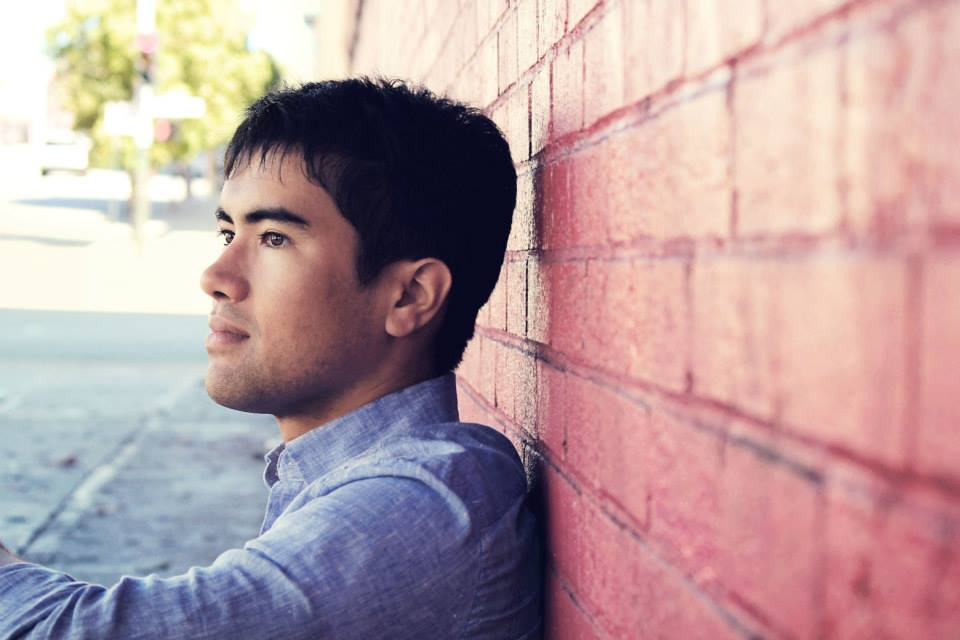
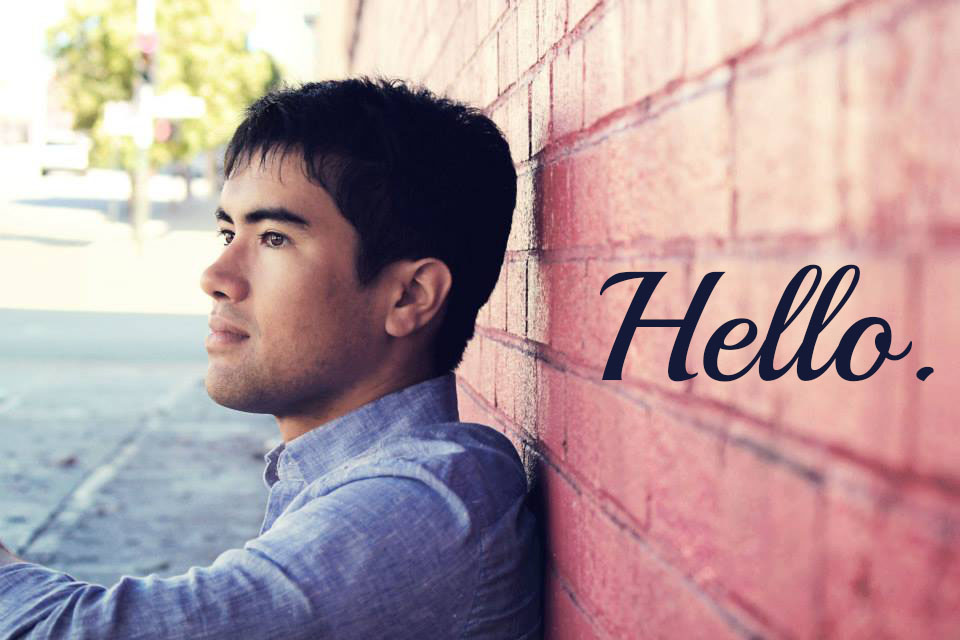
bugfixes to About page

Changed region(s): [[0.625, 0.4062, 0.9688, 0.5938]]

diff --git a/themes/svbtle/static/css/style.css b/themes/svbtle/static/css/style.css
@@ -1,1 +1,1 @@
-html{min-height:100%;margin:0;padding:0;font-size:100%;-webkit-text-size-adjust:100%;-ms-text-size-adjust:100%;overflow-y:scroll}body{margin:0;padding:0;background-color:#fff;color:#4d4d4d;font-family:'Proxima Nova','Open Sans','Lato',sans-serif;font-size:13px;line-height:16px;-webkit-font-smoothing:subpixel-antialiased}a{color:#000;text-decoration:none;border-bottom:1px dotted #999}a:link{color:#000}a:hover{color:#0e94ec;outline:0}a:active{color:#0e94ec;outline:0}a:focus{outline:thin dotted}.clearfix{content:".";display:block;height:0;clear:both}abbr.published{margin:0;padding:0;text-transform:uppercase;font-weight:300px;font-size:13px;line-height:16px}section#sidebar{width:258px;position:fixed;top:0;left:0;bottom:0;right:auto;min-height:700px;z-index:0}section#sidebar figure{margin:40px 40px;width:100px;height:100px}section#sidebar h1{text-align:center;display:block;font-family:'Source Sans Pro','Proxima Nova','Open Sans','Lato',sans-serif;font-weight:900;font-size:34px;line-height:38px;text-transform:uppercase}section#sidebar h1 a{border:none}section#sidebar h2{margin:0 40px 0 0;padding:0 0 0 40px;font-size:18px;font-weight:300;line-height:20px}section#sidebar p.bio{padding:0 20px 0 40px}section#sidebar ul{margin:0;padding:0}section#sidebar li{margin:0 35% 0 35%;padding:10px 0 10px;clear:both;display:block;float:none;text-align:center}section#sidebar li a{font-size:16px;line-height:1.1em;border:none;text-transform:uppercase;letter-spacing:.2em;font-weight:normal}section#sidebar hr{height:1em;margin:0;text-align:center;border-width:0}section#sidebar hr:after{content:"···";letter-spacing:1.2em;padding-left:.9em}section#sidebar footer{margin:0;padding:0;position:absolute;bottom:45px;width:258px;text-align:center;color:#999;font-size:12px;font-weight:300;line-height:15px}section#posts{top:0;margin:0 0 0 260px;padding:0 0 75px 0;min-height:700px;min-width:710px;height:100%;border-left:#ddd 1px solid;background-color:rgba(255,255,255,0.9);position:relative;z-index:1}section#posts h1{margin:24px 0 16px;color:#000;font-size:24px;line-height:32px;font-family:'Source Sans Pro',sans-serif;font-weight:700;text-transform:uppercase;letter-spacing:.05em}section#posts h2{margin:24px 0 14px;color:#000;font-size:20px;line-height:26px}section#posts h3{margin:22px 0 12px;color:#000}section#posts h4{margin:20px 0 10px;color:#000}section#posts h5{margin:20px 0 10px;color:#000}section#posts h6{margin:20px 0 10px;color:#000}section#posts ul,section#posts ol{margin:0 0 0 15px;padding:0;list-style-position:outside}section#posts ul li,section#posts ol li{margin:0 0 0 15px;padding:3px 0 3px 5px}section#posts ul pre,section#posts ol pre{width:517px}section#posts blockquote{margin:0;padding:0 0 0 20px;display:inline-block;border-left:10px solid #0e94ec;max-width:500px}section#posts blockquote p{width:530px}section#posts code{margin:0;padding:2px 4px;color:#000;background-color:#ddd;font-family:'Inconsolata',monospace,serif;box-shadow:inset 0 1px 2px rgba(0,0,0,0.3),0 1px 0 rgba(255,255,255,0.6);-moz-box-shadow:inset 0 1px 2px rgba(0,0,0,0.3),0 1px 0 rgba(255,255,255,0.6);-webkit-box-shadow:inset 0 1px 2px rgba(0,0,0,0.3),0 1px 0 rgba(255,255,255,0.6)}section#posts .highlight{padding:0 3% 0 3%}section#posts pre{padding:20px;display:inline-block;border-left:5px solid #0e94ec;color:#000;background-color:#ebebeb;font-family:'Inconsolata',monospace,serif;overflow-x:auto;width:100%;line-height:initial;-webkit-box-sizing:border-box;-moz-box-sizing:border-box;box-sizing:border-box}section#posts hr{color:#ddd;background-color:#ddd;height:1px;width:100%;border:none}section#posts header{margin:0;padding:40px 40px 40px 50px;border-bottom:#ddd 1px solid;font-color:#000;text-size:15px;line-height:1em}section#posts header h1.title{padding:0;display:block;font-family:'Freight-Sans-Pro','Open Sans','Lato',sans-serif;font-weight:bold;font-size:36px;text-transform:none;margin:0 0 8px 0;line-height:1em}section#posts header h1.title a{border:none}section#posts header h3.author,section#posts header h3.date{float:left;margin:0 2em 0 0;font-weight:normal}section#posts header h3.author{font-style:italic}section#posts footer{margin:0;padding:0;border-top:#ddd 1px solid}section#posts td.linenos pre{margin:0;padding:0 2px;width:20px;border:none;text-align:right}section#posts a.button_accent{margin:40px 50px;padding:10px 20px;display:inline-block;border:3px solid #0e94ec;border-radius:70px;-moz-border-radius:70px;-webkit-border-radius:70px;text-transform:uppercase;color:#0e94ec;font-size:17px;font-weight:400}section#posts a.button_accent:link{color:#0e94ec}section#posts a.button_accent:hover{color:#fff;background-color:#0e94ec;outline:0}section#posts a.button_accent:active{color:#fff;background-color:#0e94ec;outline:0}section#posts p.paginator{margin:0;padding:0;min-height:122px;width:100%;border-top:#ddd 1px solid}section#posts article{margin:0;padding:40px 20% 40px 50px;position:relative;font-size:15px;line-height:25px;overflow-x:hidden;overflow-y:hidden}section#posts article #title{font-family:'Freight-Sans-Pro','Proxima Nova','Open Sans','Lato',sans-serif;margin:32px 0 0;padding:0;color:#000}section#posts article #title a{border:none}section#posts article #article_meta{margin:20px 0 0 0;padding:0;font-size:13px;line-height:16px}section#posts article p{text-align:justify}section#posts article p strong{text-transform:uppercase;font-family:'Source Sans Pro',sans-serif}section#posts #comments{margin:0;padding:40px 40px 40px 50px;position:relative;border-top:#ddd 1px solid;font-size:15px;line-height:25px;min-height:600px}section#posts #comments h2{color:#000}section#posts #disqus_thread{width:600px}section#posts dl#tag_list{margin:0;padding:40px 40px 40px 50px;font-size:14px;line-height:18px}section#posts dl#tag_list ul{margin:0;padding:0}section#posts dl#tag_list ul li{margin:0;padding:0}section#posts dl{margin:0;padding:0;font-size:15px;line-height:25px;overflow-x:hidden;overflow-y:hidden}section#posts dl ol{margin:0;padding:0;list-style-type:none}section#posts dl ol li{margin:0 0 0;padding:0 0 50px 50px;border-bottom:#ddd 1px solid}section#posts dl ol .title{margin:76px 0 0;padding:0;color:#000}section#posts dl ol .title a{border:none}section#posts dl ol .entry-content{padding-right:20%}section#posts dl ol .entry-content ul{margin:0 0 0 15px;padding:0;list-style-position:outside}section#posts dl ol .entry-content ul li{margin:0 0 15px 15px;padding:3px 0 3px 5px;border-bottom:0}section#posts .img-center{width:66%;margin:auto}section#posts .img-center img{max-width:100%;max-height:100%;display:block}.MathJax span{color:#000}.table-bordered>thead>tr>th,.table-bordered>tbody>tr>th,.table-bordered>tfoot>tr>th,.table-bordered>thead>tr>td,.table-bordered>tbody>tr>td,.table-bordered>tfoot>tr>td{border:1px solid #ddd;padding:8px;line-height:1.42857143;vertical-align:top;border-top:1px solid #ddd}.table-bordered>thead>tr:last-child>th{border-bottom:1px solid #7f7f7f}.table-centered>thead>tr>th,.table-centered>tbody>tr>th,.table-centered>tfoot>tr>th,.table-centered>thead>tr>td,.table-centered>tbody>tr>td,.table-centered>tfoot>tr>td{text-align:center}.table-bordered{border:1px solid #ddd}.table{width:100%;max-width:100%;background-color:transparent;border-spacing:0;border-collapse:collapse}.pseudocode{border-top:1px solid #000;border-bottom:1px solid #000;background-color:#f0f0f0;font-size:90%;margin:1em 0;padding:.5em;line-height:initial;font-family:'Inconsolata',monospace;font-weight:normal}
+html{min-height:100%;margin:0;padding:0;font-size:100%;-webkit-text-size-adjust:100%;-ms-text-size-adjust:100%;overflow-y:scroll}body{margin:0;padding:0;background-color:#fff;color:#4d4d4d;font-family:'Proxima Nova','Open Sans','Lato',sans-serif;font-size:13px;line-height:16px;-webkit-font-smoothing:subpixel-antialiased}a{color:#000;text-decoration:none;border-bottom:1px dotted #999}a:link{color:#000}a:hover{color:#0e94ec;outline:0}a:active{color:#0e94ec;outline:0}a:focus{outline:thin dotted}.clearfix{content:".";display:block;height:0;clear:both}abbr.published{margin:0;padding:0;text-transform:uppercase;font-weight:300px;font-size:13px;line-height:16px}section#sidebar{width:258px;position:fixed;top:0;left:0;bottom:0;right:auto;min-height:700px;z-index:0}section#sidebar figure{margin:40px 40px;width:100px;height:100px}section#sidebar h1{text-align:center;display:block;font-family:'Source Sans Pro','Proxima Nova','Open Sans','Lato',sans-serif;font-weight:900;font-size:34px;line-height:38px;text-transform:uppercase}section#sidebar h1 a{border:none}section#sidebar h2{margin:0 40px 0 0;padding:0 0 0 40px;font-size:18px;font-weight:300;line-height:20px}section#sidebar p.bio{padding:0 20px 0 40px}section#sidebar ul{margin:0;padding:0}section#sidebar li{margin:0 35% 0 35%;padding:10px 0 10px;clear:both;display:block;float:none;text-align:center}section#sidebar li a{font-size:16px;line-height:1.1em;border:none;text-transform:uppercase;letter-spacing:.2em;font-weight:normal}section#sidebar hr{height:1em;margin:0;text-align:center;border-width:0}section#sidebar hr:after{content:"···";letter-spacing:1.2em;padding-left:.9em}section#sidebar footer{margin:0;padding:0;position:absolute;bottom:45px;width:258px;text-align:center;color:#999;font-size:12px;font-weight:300;line-height:15px}section#posts{top:0;margin:0 0 0 260px;padding:0 0 75px 0;min-height:700px;min-width:710px;height:100%;border-left:#ddd 1px solid;background-color:rgba(255,255,255,0.9);position:relative;z-index:1}section#posts h1{margin:24px 0 16px;color:#000;font-size:24px;line-height:32px;font-family:'Source Sans Pro',sans-serif;font-weight:700;text-transform:uppercase;letter-spacing:.05em}section#posts h2{margin:24px 0 14px;color:#000;font-size:20px;line-height:26px}section#posts h3{margin:22px 0 12px;color:#000}section#posts h4{margin:20px 0 10px;color:#000}section#posts h5{margin:20px 0 10px;color:#000}section#posts h6{margin:20px 0 10px;color:#000}section#posts ul,section#posts ol{margin:0 0 0 15px;padding:0;list-style-position:outside}section#posts ul li,section#posts ol li{margin:0 0 0 15px;padding:3px 0 3px 5px}section#posts ul pre,section#posts ol pre{width:517px}section#posts blockquote{margin:0;padding:0 0 0 20px;display:inline-block;border-left:10px solid #0e94ec;max-width:500px}section#posts blockquote p{width:530px}section#posts code{margin:0;padding:2px 4px;color:#000;background-color:#ddd;font-family:'Inconsolata',monospace,serif;box-shadow:inset 0 1px 2px rgba(0,0,0,0.3),0 1px 0 rgba(255,255,255,0.6);-moz-box-shadow:inset 0 1px 2px rgba(0,0,0,0.3),0 1px 0 rgba(255,255,255,0.6);-webkit-box-shadow:inset 0 1px 2px rgba(0,0,0,0.3),0 1px 0 rgba(255,255,255,0.6)}section#posts .highlight{padding:0 3% 0 3%}section#posts pre{padding:20px;display:inline-block;border-left:5px solid #0e94ec;color:#000;background-color:#ebebeb;font-family:'Inconsolata',monospace,serif;overflow-x:auto;width:100%;line-height:initial;-webkit-box-sizing:border-box;-moz-box-sizing:border-box;box-sizing:border-box}section#posts hr{color:#ddd;background-color:#ddd;height:1px;width:100%;border:none}section#posts header{margin:0;padding:40px 40px 40px 50px;border-bottom:#ddd 1px solid;font-color:#000;text-size:15px;line-height:1em}section#posts header h1.title{padding:0;display:block;font-family:'Freight-Sans-Pro','Open Sans','Lato',sans-serif;font-weight:bold;font-size:36px;text-transform:none;margin:0 0 8px 0;line-height:1em}section#posts header h1.title a{border:none}section#posts header h3.author,section#posts header h3.date{float:left;margin:0 2em 0 0;font-weight:normal}section#posts header h3.author{font-style:italic}section#posts footer{margin:0;padding:0;border-top:#ddd 1px solid}section#posts td.linenos pre{margin:0;padding:0 2px;width:20px;border:none;text-align:right}section#posts a.button_accent{margin:40px 50px;padding:10px 20px;display:inline-block;border:3px solid #0e94ec;border-radius:70px;-moz-border-radius:70px;-webkit-border-radius:70px;text-transform:uppercase;color:#0e94ec;font-size:17px;font-weight:400}section#posts a.button_accent:link{color:#0e94ec}section#posts a.button_accent:hover{color:#fff;background-color:#0e94ec;outline:0}section#posts a.button_accent:active{color:#fff;background-color:#0e94ec;outline:0}section#posts p.paginator{margin:0;padding:0;min-height:122px;width:100%;border-top:#ddd 1px solid}section#posts article{margin:0;padding:40px 20% 40px 50px;position:relative;font-size:15px;line-height:25px;overflow-x:hidden;overflow-y:hidden}section#posts article #title{font-family:'Freight-Sans-Pro','Proxima Nova','Open Sans','Lato',sans-serif;margin:32px 0 0;padding:0;color:#000}section#posts article #title a{border:none}section#posts article #article_meta{margin:20px 0 0 0;padding:0;font-size:13px;line-height:16px}section#posts article p{text-align:justify}section#posts article p strong{text-transform:uppercase;font-family:'Source Sans Pro',sans-serif}section#posts #comments{margin:0;padding:40px 40px 40px 50px;position:relative;border-top:#ddd 1px solid;font-size:15px;line-height:25px;min-height:600px}section#posts #comments h2{color:#000}section#posts #disqus_thread{width:600px}section#posts dl#tag_list{margin:0;padding:40px 40px 40px 50px;font-size:14px;line-height:18px}section#posts dl#tag_list ul{margin:0;padding:0}section#posts dl#tag_list ul li{margin:0;padding:0}section#posts dl{margin:0;padding:0;font-size:15px;line-height:25px;overflow-x:hidden;overflow-y:hidden}section#posts dl ol{margin:0;padding:0;list-style-type:none}section#posts dl ol li{margin:0 0 0;padding:0 0 50px 50px;border-bottom:#ddd 1px solid}section#posts dl ol .title{margin:76px 0 0;padding:0;color:#000}section#posts dl ol .title a{border:none}section#posts dl ol .entry-content{padding-right:20%}section#posts dl ol .entry-content ul{margin:0 0 0 15px;padding:0;list-style-position:outside}section#posts dl ol .entry-content ul li{margin:0 0 15px 15px;padding:3px 0 3px 5px;border-bottom:0}section#posts .img-center{width:66%;margin:auto}section#posts .img-center img{max-width:100%;max-height:100%;display:block}.MathJax span{color:#000}.table-bordered>thead>tr>th,.table-bordered>tbody>tr>th,.table-bordered>tfoot>tr>th,.table-bordered>thead>tr>td,.table-bordered>tbody>tr>td,.table-bordered>tfoot>tr>td{border:1px solid #ddd;padding:8px;line-height:1.42857143;vertical-align:top;border-top:1px solid #ddd}.table-bordered>thead>tr:last-child>th{border-bottom:1px solid #7f7f7f}.table-centered>thead>tr>th,.table-centered>tbody>tr>th,.table-centered>tfoot>tr>th,.table-centered>thead>tr>td,.table-centered>tbody>tr>td,.table-centered>tfoot>tr>td{text-align:center}.table-bordered{border:1px solid #ddd}.table{width:100%;max-width:100%;background-color:transparent;border-spacing:0;border-collapse:collapse}.pseudocode{border-top:1px solid #000;border-bottom:1px solid #000;background-color:#f0f0f0;font-size:90%;margin:1em 0;padding:.5em;line-height:initial;font-family:'Inconsolata',monospace;font-weight:normal}.pseudocode>ol{list-style-type:decimal}.pseudocode>ol>li>ol{list-style-type:upper-alpha}

diff --git a/content/pages/about.html b/content/pages/about.html
@@ -48,7 +48,6 @@
       <div class="img-container">
         <img src="/assets/img/portrait.jpg"></img>
       </div>
-      <h1>Hello.</h1>
     </div>
 
     <!-- personal message -->
@@ -65,7 +64,7 @@
         rocks, read "sick papes" (née interesting academic papers), play the
         guitar, and get lost in foreign countries. My favorite authors are
         <a href="http://en.wikipedia.org/wiki/One_Hundred_Years_of_Solitude">Marquez</a>,
-        <a href="http://en.wikipedia.org/wiki/The_Lord_of_the_Rings">Tolkein</a>,
+        <a href="http://en.wikipedia.org/wiki/The_Lord_of_the_Rings">Tolkien</a>,
         <a href="http://en.wikipedia.org/wiki/Slaughterhouse-Five">Vonnegut</a>,
         <a href="http://www.magicbroom.info/Papers/DuchiHaSi10.pdf">Duchi</a>, and
         <a href="http://web.stanford.edu/~boyd/papers/admm_distr_stats.html">Boyd</a>.

diff --git a/themes/svbtle/static/css/style.less b/themes/svbtle/static/css/style.less
@@ -588,4 +588,11 @@ section#posts {
   line-height : initial;
   font-family : 'Inconsolata', monospace;
   font-weight : normal;
+
+  > ol {
+    list-style-type: decimal;
+    > li > ol {
+      list-style-type: upper-alpha;
+    }
+  }
 }

diff --git a/themes/svbtle/templates/base.html b/themes/svbtle/templates/base.html
@@ -88,7 +88,7 @@
   </script>
   <script
     type= "text/javascript"
-    src="/assets/js/MathJaxLocal.js"
+    src="{{ SITEURL }}/assets/js/MathJaxLocal.js"
     >
   </script>
   <script
